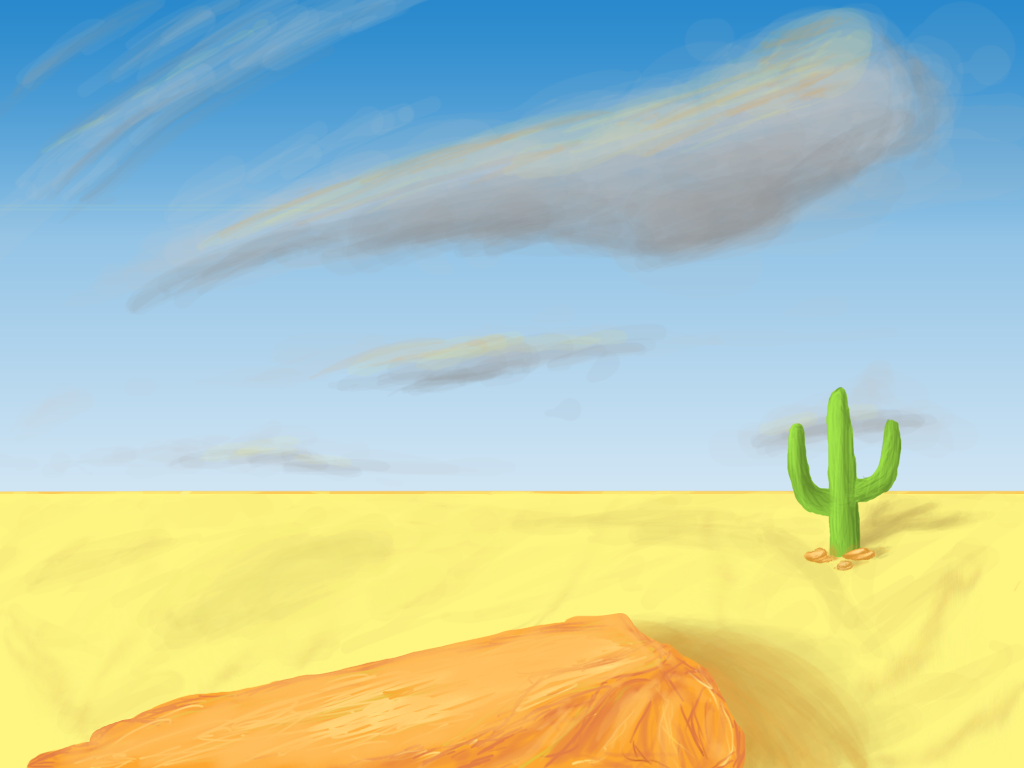
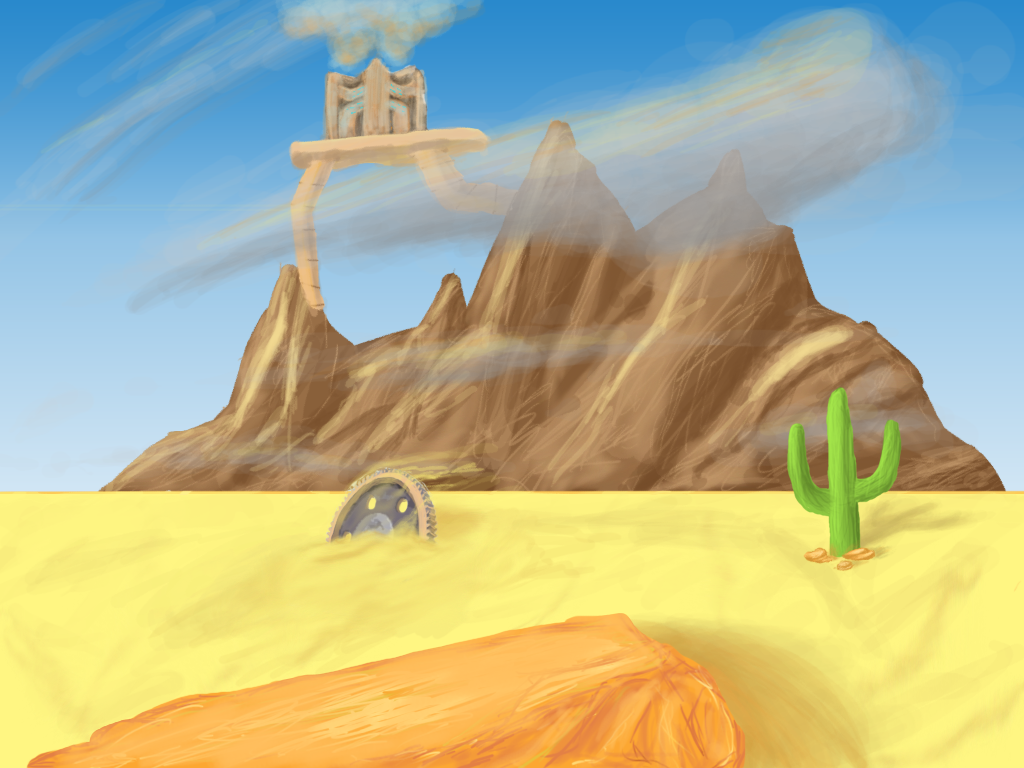
Including New State Backgrounds

Changed region(s): [[0.0938, 0.0, 1.0, 0.7188]]

diff --git a/src/com/vulcastudios/states/ControlsState.java b/src/com/vulcastudios/states/ControlsState.java
@@ -30,7 +30,7 @@ public class ControlsState extends BasicGameState {
 	public void render(GameContainer container, StateBasedGame game, Graphics g)
 			throws SlickException {
 		Color previousColor = g.getColor();
-		g.drawImage(this.rm.getImage("creditsScreen"), 0, 0);
+		g.drawImage(this.rm.getImage("controlsScreen"), 0, 0);
 		g.drawString("Directional arrows: move", 50, 50);
 		g.drawString("Space bar: suicide", 50, 75);
 		g.drawString("Enter: restart level", 50, 100);
